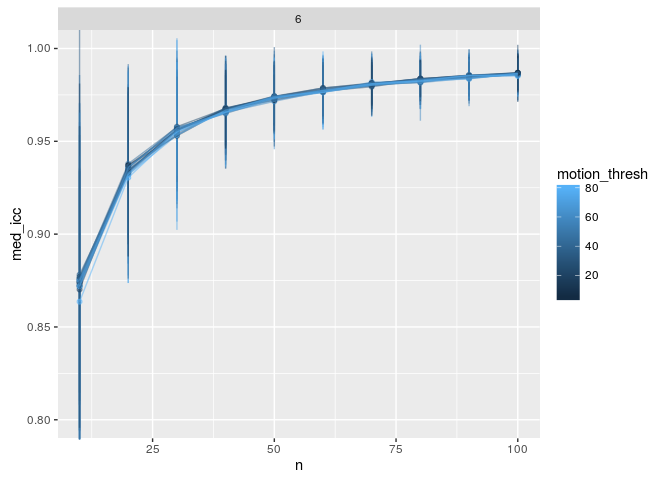
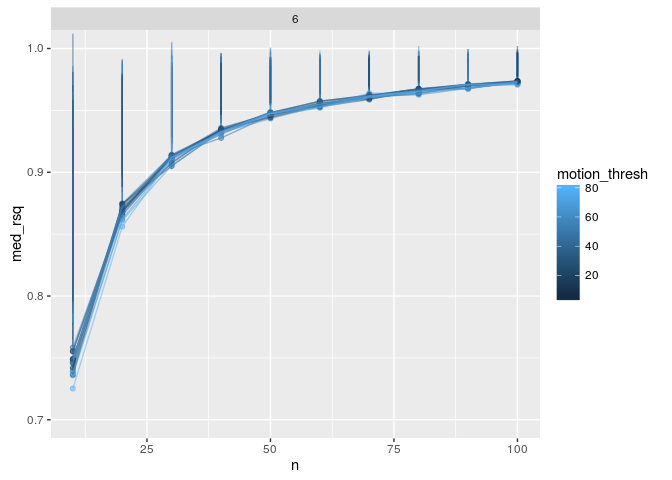
update plot

diff --git a/Motion/plot_rsq_rez.md b/Motion/plot_rsq_rez.md
@@ -275,12 +275,22 @@ ICC plots
 Within motion cutoffs
 =====================
 
-    within_cutoff_plot <- ggplot(rsqDF, aes(x=n, y=med_icc, group=motion_thresh, color=motion_thresh))+
+    within_cutoff_plot <- ggplot(rsqDF, aes(x=n, y=med_rsq, group=motion_thresh, color=motion_thresh))+
         geom_errorbar(aes(ymin=med_icc-CI_95_icc/2, 
                   ymax=med_icc+CI_95_icc/2), 
                   width=0, alpha=.5)+
-        coord_cartesian(y=c(.8, 1))+
+        coord_cartesian(y=c(.7, 1))+
         facet_wrap(~age_l)
     plotThing(within_cutoff_plot) 
 
 ![](plot_rsq_rez_files/figure-markdown_strict/unnamed-chunk-3-1.png)<!-- -->
+
+    within_cutoff_plot <- ggplot(rsqDF, aes(x=n, y=med_icc, group=motion_thresh, color=motion_thresh))+
+        geom_errorbar(aes(ymin=med_icc-CI_95_icc/2, 
+                  ymax=med_icc+CI_95_icc/2), 
+                  width=0, alpha=.5)+
+        coord_cartesian(y=c(.7, 1))+
+        facet_wrap(~age_l)
+    plotThing(within_cutoff_plot) 
+
+![](plot_rsq_rez_files/figure-markdown_strict/unnamed-chunk-3-2.png)<!-- -->
